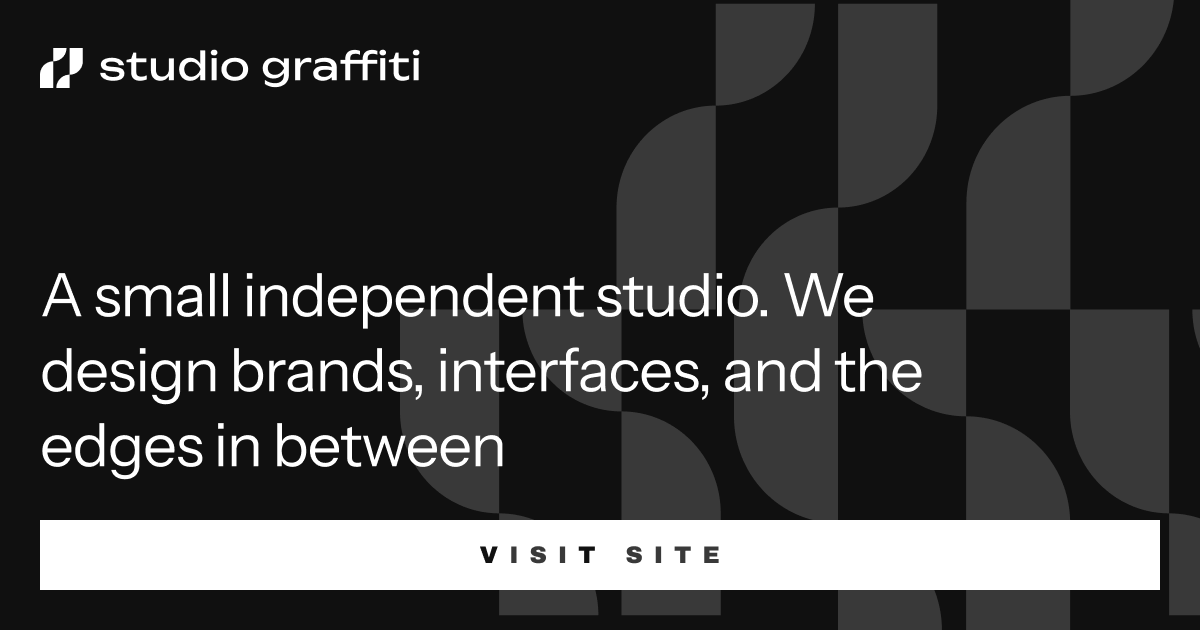
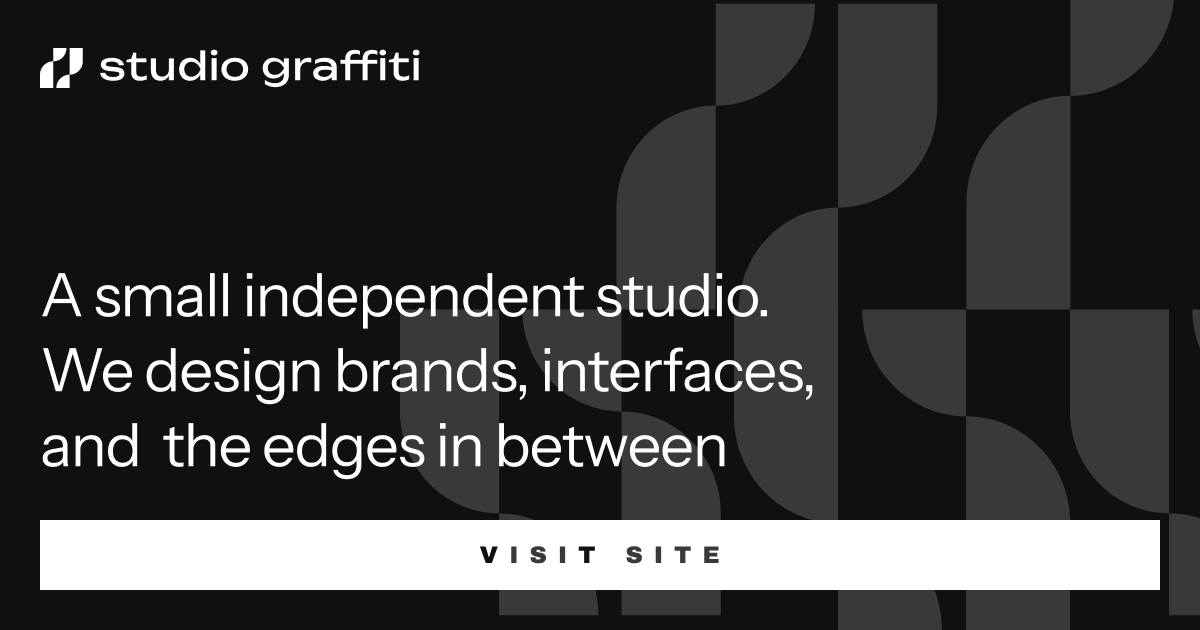
Sync roadmap with fluid+SEO pass; resolve SITE_URL via Vercel env
- ROADMAP: reflect new tokens (--text-menu/--text-speaker, all rem),
  SEO additions (metadataBase, OG, JSON-LD, llms.txt, og.png, h1 on
  home), 44px touch targets, alt audit, .pl as prod target
- ROADMAP: add SEO/LLM follow-ups (Article + Breadcrumb JSON-LD,
  dynamic Sanity sitemap, leading-tight fixes)
- src/lib/site.ts: fall back through VERCEL_PROJECT_PRODUCTION_URL
  → VERCEL_URL when NEXT_PUBLIC_SITE_URL is unset, so previews
  resolve OG URLs against their own host
- public/og.png: refresh

Changed region(s): [[0.0308, 0.5429, 0.7708, 0.7841], [0.6475, 0.4222, 0.74, 0.5127]]

diff --git a/src/lib/site.ts b/src/lib/site.ts
@@ -1,5 +1,12 @@
-export const SITE_URL =
-  process.env.NEXT_PUBLIC_SITE_URL ?? "https://studio-graffiti.pl";
+function resolveSiteUrl(): string {
+  if (process.env.NEXT_PUBLIC_SITE_URL) return process.env.NEXT_PUBLIC_SITE_URL;
+  if (process.env.VERCEL_PROJECT_PRODUCTION_URL)
+    return `https://${process.env.VERCEL_PROJECT_PRODUCTION_URL}`;
+  if (process.env.VERCEL_URL) return `https://${process.env.VERCEL_URL}`;
+  return "https://studio-graffiti.pl";
+}
+
+export const SITE_URL = resolveSiteUrl();
 
 export const SITE_NAME = "Studio Graffiti";
 

diff --git a/ROADMAP.md b/ROADMAP.md
@@ -53,11 +53,18 @@ Living document. Update as items move between sections.
 - `contain: paint` on cards for paint isolation
 - `<img>` in CaseCard and MouseTrail spawns: `loading="lazy"` +
   `decoding="async"`
+- 44px min touch targets on menu toggle, MenuPanel nav items,
+  DraggableBadge
+- Alt audit: CaseCard / ServiceCard / BlogCard / ProcessStack images
+  now use the adjacent title as `alt` (was empty)
 
 ### Design tokens
-- Fluid typography via `@theme` block in `globals.css`:
-  `--text-display`, `--text-card-title`, `--text-body-lg`, `--text-body`,
-  `--text-mono` (clamp-based)
+- Fluid typography via `@theme` block in `globals.css`, all in `rem`
+  for proper user-font-size scaling:
+  `--text-display` (h1, 40→64px), `--text-menu` (30→36px),
+  `--text-speaker` (36→60px), `--text-card-title` (24→34px),
+  `--text-body-lg` (15→17px), `--text-body` (16px),
+  `--text-mono` (11px)
 - Surface tokens: `--color-ink`, `--color-paper`
 - `--shadow-card` (soft ambient drop) used on both card types
 
@@ -71,8 +78,20 @@ Living document. Update as items move between sections.
 ### SEO & analytics
 - `src/app/sitemap.ts` → `/sitemap.xml`
 - `src/app/robots.ts` → `/robots.txt`
-- `generateMetadata` per case/service page
+- `generateMetadata` per case / service / blog slug page
 - `@vercel/analytics` + `@vercel/speed-insights` wired in root layout
+- Central `src/lib/site.ts` exposes `SITE_URL` / `SITE_NAME` /
+  `SITE_DESCRIPTION` (overridable via `NEXT_PUBLIC_SITE_URL`,
+  default `https://studio-graffiti.pl`)
+- Root metadata: `metadataBase`, canonical `/`, title template,
+  `openGraph` (with `/og.png` 1200×630), `twitter` summary_large_image,
+  `robots.googleBot` with `max-image-preview: large`
+- JSON-LD `Organization` injected in `<body>` (read by Google AI
+  Overviews, Perplexity, ChatGPT search)
+- `public/llms.txt` — short LLM-crawler site map
+- `public/og.png` — static social card (1200×630)
+- Home hero promoted to `<h1>` (was missing — every other route had
+  its own `<h1>`)
 
 ### Cleanup
 - Metadata: "Studio Graffiti" (was leftover "Teardown")
@@ -83,7 +102,8 @@ Living document. Update as items move between sections.
 
 ### Infrastructure
 - Repo: github.com/andreyantar/graf2
-- Prod: studio-graffiti.vercel.app
+- Prod target: studio-graffiti.pl (DNS pending; currently aliased
+  to studio-graffiti.vercel.app)
 - Static prerender for all 11 routes
 
 ---
@@ -130,9 +150,28 @@ Living document. Update as items move between sections.
 - First-paint state / font-swap polish (FOUC mitigation)
 - Cookie / privacy notice (EU jurisdictions)
 
+## 🔴 Pending — SEO/LLM (next iteration)
+
+- `Article` JSON-LD on `/blog/[slug]` (author, datePublished,
+  image) — critical for blog discoverability + AI summaries
+- `BreadcrumbList` JSON-LD on `/work/[slug]`, `/services/[slug]`,
+  `/blog/[slug]` — surfaces breadcrumbs in SERP
+- Sitemap: pull blog slugs from Sanity dynamically (currently only
+  hardcoded cases/services land in `sitemap.xml`)
+- Audit `description` quality in each `generateMetadata` (verify
+  none default to a generic boilerplate)
+- Minor fluid hangs: explicit `leading-[1.1]` instead of
+  `leading-tight` on shared h2/h3 components; arbitrary `text-[15px]`
+  / `rounded-[20px]` in `snap-section.tsx` → fluid tokens
+
 ## 🔴 Pending — Misc
 
-- OG image generation via `next/og` (deferred by user)
+- OG image is currently a static `public/og.png`. Could swap to dynamic
+  `opengraph-image.tsx` (`next/og`) for per-route cards once the static
+  one starts feeling limiting.
+- DNS for `studio-graffiti.pl` + `NEXT_PUBLIC_SITE_URL` set in Vercel
+  Production env (currently falls back to `VERCEL_PROJECT_PRODUCTION_URL`
+  → `VERCEL_URL` → hardcoded default in `src/lib/site.ts`)
 - `scrollContainerRef` typed without `as RefObject<HTMLElement>` cast
   (minor)
 - CaseCard renders × 3 in the looped sections — 12 scroll listeners